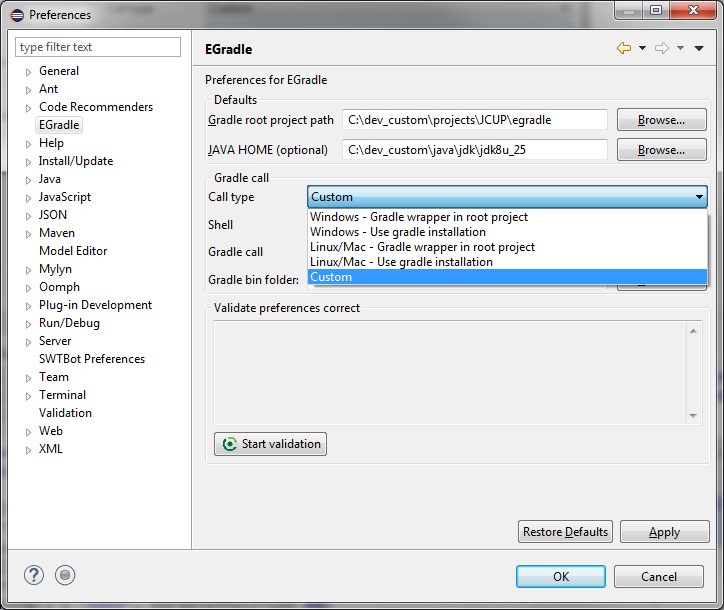
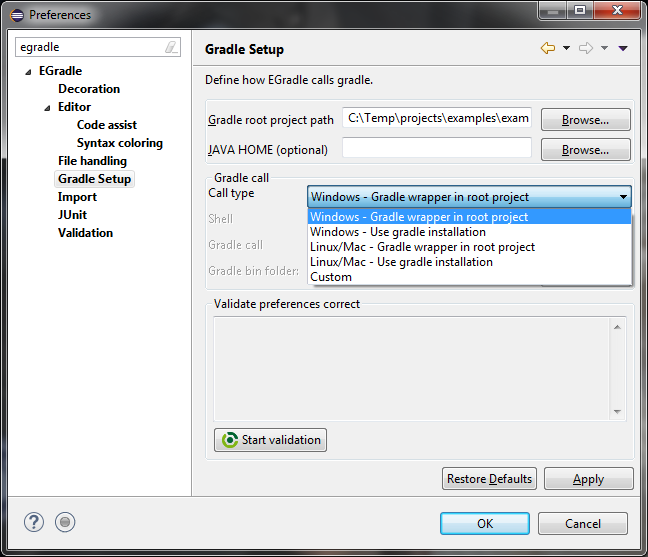
Documentation updated #248
- gradle setup documentation updated
- gradle importer links now to new project wizard

Changed region(s): [[0.0, 0.0, 1.0, 1.0], [0.2778, 0.6715, 0.5247, 0.8241]]

diff --git a/egradle-plugin-main/html/user_guide/import.html b/egradle-plugin-main/html/user_guide/import.html
@@ -12,18 +12,30 @@
 	<h1>Import gradle projects</h1>
 	<p>You can import projects in different ways, all are working:</p>
 	<ul>
-		<li><a href="#import_preconditions">Preconditions</a></li>
-		<li><a href="#import_by_importer">Import gradle root and all subprojects by EGradle importer</a>
-		<ul>
-			<li><a href="#import_by_importer_what_happens">What happens?</a></li>	
-			<li><a href="#import_by_importer_reimport">Reimporting current root project</a></li>
-			<li><a href="#import_preferences">Import preferences</a></li>
-			
-		</ul>
+		<li><a href="#new_projects">New projects</a></li>
+		
+		<li><a href="#import_existing">Import existing gradle projects</a>
+			<ul>
+				<li><a href="#import_preconditions">Preconditions</a></li>
+				<li><a href="#import_by_importer">Import gradle root and all subprojects by EGradle importer</a>
+				<ul>
+					<li><a href="#import_by_importer_what_happens">What happens?</a></li>	
+					<li><a href="#import_by_importer_reimport">Reimporting current root project</a></li>
+					<li><a href="#import_preferences">Import preferences</a></li>
+					
+				</ul>
+				</li>
+				<li><a href="#import_by_default">Import by standard way</a></li>
+			</ul>
 		</li>
-		<li><a href="#import_by_default">Import by standard way</a></li>
 	</ul>
-	<h2 id="import_preconditions">Preconditions</h2>
+	<h2 id="new_projects">New projects</h2>
+	When you want to start a new gradle project you should use the <code>EGradle New Project Wizard</code>
+	which is described <a href="new_project_wizard.html">here</a>. It is the easiest way to 
+	create new gradle projects out of the box in eclipse and automatically import them. Of course you are able to create file structure and build files etc. manually and import as existing project(s) as described
+	in the next steps.</>
+	<h2 id="import_by_importer">Import existing gradle projects</h2>
+	<h3 id="import_preconditions">Preconditions</h3>
 	 EGradle does no magic to your build files. You have to apply the 'eclipse' plugin inside your build.gradle file.
 	 <p>
 		<img src="images/egradle-import-preconditions.png" />
@@ -31,7 +43,7 @@
 	<p>
 		<a href="#top">Top</a>
 	</p>
-	<h2 id="import_by_importer">Import gradle root and all subprojects by EGradle importer</h2>
+	<h3 id="import_by_importer">Import gradle root and all subprojects by EGradle importer</h3>
 	<p>EGradle contains an importer - simply call "File->Import..." and enter "gradle"</p>
 	<p>
 		<img src="images/egradle-import-rootproject.png" />
@@ -42,7 +54,7 @@
 	<p>The settings for gradle root project path, global java home
 		settings and gradle call type are initially copied from current
 		preferences - if there exists a setup.</p>
-	<h3 id="import_by_importer_what_happens">What happens?</h3>
+	<h4 id="import_by_importer_what_happens">What happens?</h4>
 	What happens when you call finish button?
 	<ol>
 		<li>All eclipse projects which are representatives of the new gradle root project location are closed</li>
@@ -77,7 +89,7 @@
 	<p>
 		<a href="#top">Top</a>
 	</p>
-	<h3 id="import_by_importer_reimport">Reimporting current root project</h3>
+	<h4 id="import_by_importer_reimport">Reimporting current root project</h4>
 	<p>
 	What happens when you keep the settings of current preferences?<br><br>	
 	The same as described above. But when do you need this? When you switch between branches
@@ -93,20 +105,20 @@
 	<p>
 		<a href="#top">Top</a>
 	</p>	
-	<h3 id="import_preferences">Import preferences</h3>
+	<h4 id="import_preferences">Import preferences</h4>
 	<p>
 	The importer has got it's own preferences page where you can setup
 	some behaviour:
 	</p>
 	<img src="images/egradle-preferences-importer.png" />
 	<p>
-	<h4>Execute assemble task</h4>
+	<h5>Execute assemble task</h5>
 	When this option is enabled, the <b>assemble</b> task will be called after 
 	EGradle has imported the projects into eclipse. This will build
 	main output and build folders but no test outputs.<br><br>
 	If you deactivate this option you will not have <a href="filehandling.html#automatically_derive_buildfolders">auto derived build folders</a> after import, because no build folders will be created. 
 	 
-	<h4>Clean eclipse projects</h4>
+	<h5>Clean eclipse projects</h5>
 	<p>
 	When enabled a full <b>"clean all projects"</b> will be executed after import is done, so eclipse 
 	bin folders will be recreated and eclipse and gradle outputs are in sync.
@@ -116,7 +128,7 @@
 	</p>	
 	<br>
 	<br>	
-	<h2 id="import_by_default">Import by standard eclipse way</h2>
+	<h3 id="import_by_default">Import by standard eclipse way</h3>
 	<p>
 		This is the classic way if you do not want to use the EGradle importer mechanism.
 	</p>

diff --git a/egradle-plugin-main/html/user_guide/setup.html b/egradle-plugin-main/html/user_guide/setup.html
@@ -16,11 +16,12 @@
 		<li><a href="#validation">Validation</a></li>
 		<li><a href="#change_rootproject_by_contextmenu">Change root project by context menu</a></li>
 	</ul>
+	
 	<h2>Preferences</h2>
-	Go to preferences, search for EGradle settings, setup your root project
-	path and (optional) the default JAVA_HOME to set for gradle wrapper.
+	Go to <code>Window => Preferences </code> and search for <code>EGradle => Gradle Setup</code>. 
+	Now setup your root project path and (optional) the JAVA_HOME to use for gradle wrapper.
 	<br>
-	<img src="images/egradle-preferences.png" />
+	<img src="images/egradle-preferences-gradle-setup.png" />
 	<h3 id="defaults">Defaults</h3>
 	Inside this area you can define
 	<ul>
@@ -51,6 +52,9 @@
 	Press the "Start validation" button to check if your current gradle
 	settings are working fine.
 	<br />
+	<p>
+		<img src="images/egradle-preferences-gradle-validation.png" />
+	</p>
 	<br>
 	<p>
 		<a href="#top">Top</a>
